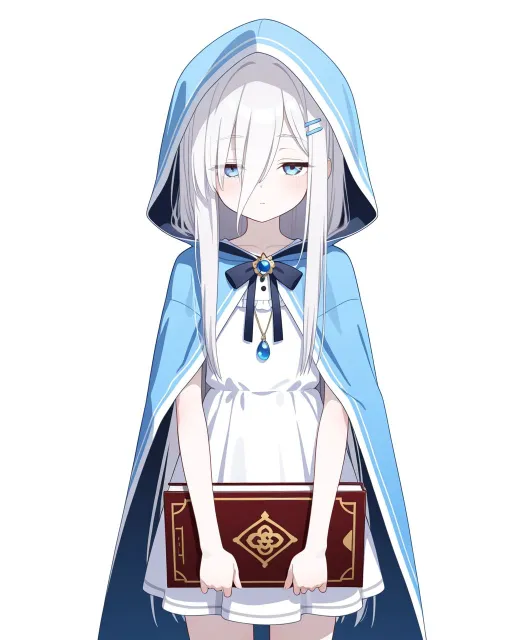
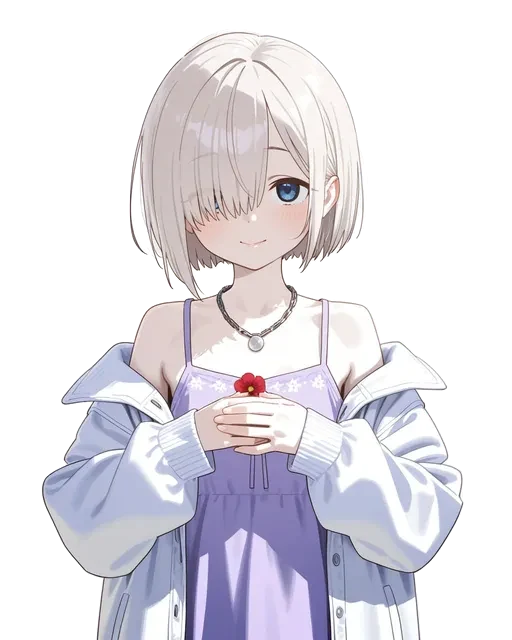
シェイラの立ち絵を描き直す（基本の絵。案 A を入れ、案 B・C を並べる）
銀の短いボブ（右目が前髪に隠れる）・垂れ目の青い目・白い大きめの上着と薄紫のキャミソール。
見た目のタグ・seed・メモ（portraits.json/md）と、人物の見た目（c2_people.js）も新しい絵に合わせる。
絵は背景を抜いた透明つき。表情の差分は持ち主が絵を決めてから作る。

Claude-Session: https://claude.ai/code/session_011Kp4AbAXdzXbnvYnjXXoLh

diff --git a/src/data/changelog.js b/src/data/changelog.js
@@ -9,6 +9,7 @@
       ver: "次の版",
       next: true,
       items: [
+        "シェイラの立ち絵を描き直した：銀の短い髪で右目が前髪に隠れ、白い大きめの上着に薄紫の服",
         "トロフィーの格を見直した：最初の冒険で取れるものは銅、狙えば取れるものは銀、大きな節目（使徒・伝説の武具・一年の旅・一万 G・上級の術・最後の段の絆）は金。金の上に「白金」（10 点）を足し、すべての場所・討てる使徒すべて・図鑑の分類を埋めるような長いやりこみを置いた。成長・評判と善悪・戦い・魔法・技・装備・旅・迷宮・依頼・仲間・絆と恋・結末・図鑑・交易の節目ごとにトロフィーを足し、全部で 242 個に。トロフィーの画面に格ごとの数を出す。前に取ったトロフィーも今の格で数える",
         "大きな迷宮（竜の墓場・黒鎧の使徒の居城・エルヴィナの地下墓地・鬼ヶ島の洞窟）の階に部屋ができた：分かれ道を選んで、罠・宝の箱（錠・ミミック）・休み場・魔物の巣・下への階段・その迷宮の昔のかけら（骨に刻まれた名・逆さの浮き彫り・墓守の帳面・流された剣士の名）に出会う。壁を調べると隠し扉（近道か隠し部屋）も。階段を見つければ静かに下りられ、探さずに奥へ進むこともできる。開錠の術・灯りの術・盗賊の鍵開けや罠読み・迷宮の古い鍵が部屋で役に立つ。部屋ごとに背景が変わり、最奥には特別な景色がある。見出しに、今いる階・入った部屋の数・階段を見つけたかが出る。ほかの迷宮は今までどおり",
       ],

diff --git a/src/data/c2_people.js b/src/data/c2_people.js
@@ -42,7 +42,7 @@
     }),
     sheila: P({
       name: "シェイラ", full: "シェイラ・レオネスト", nation: "レオネスト", role: "王国の第七王子（いちばん下の姫）。田舎の城の主。本が好きで使徒の伝承に詳しい。大人しそうに見えてお転婆。傭兵を雇って国の犯罪の芽を独自に調べている。「うん、」から話す", sex: "女", age: 18, race: "human",
-      who: { kind: "noble", sex: "女", age: 18, seed: "c2:sheila", look: { hair: "#d8bc70", hairStyle: "long", eyes: "sleepy", mouth: "flat", brows: "calm", outfit: "cloak", head: "none", gear: "none", chest: "gem", cloth: "#3a4a6a", build: "slim", marks: [], bg: "#6a5a7a" } },
+      who: { kind: "noble", sex: "女", age: 18, seed: "c2:sheila", look: { hair: "#d8d8e0", hairStyle: "bob", eyes: "sleepy", mouth: "smile", brows: "calm", outfit: "coat", head: "none", gear: "none", chest: "chain", cloth: "#eeeaf0", build: "slim", marks: [], bg: "#6a5a7a" } },
       join: {
         cls: "田舎の城の主", desc: "本を一冊、抱えている", power: 40, dmg: 0, heal: true, trait: "just", bond: 56, home: ["leavel"],
         life: { home: "王都の外れの、田舎の城", kin: "兄さまと姉さまたち", food: "城の厨房の焼き林檎", habit: "読みかけの本に指を一本はさんだまま、歩いている", secret: "城の書庫のいちばん奥の棚には、鍵がかかっている。中の本はもう全部読んだ", keep: "書き込みだらけの古い本" },

diff --git a/docs/art/portraits.md b/docs/art/portraits.md
@@ -24,7 +24,7 @@
 | `assets/portraits/dil.webp` | ディル | 型：`bishonen`<br>見た目（固定）：1boy, male focus, adult, young man, 24 years old, lean, tan skin, black hair, dark hair, short hair, messy spiky hair, swept bangs, amber eyes, sharp eyes, thin eyebrows, untucked white shirt, open collar, rolled-up sleeves, worn brown vest, brown leather belt, daggers on belt, pencil behind ear, narrow face, pointed chin<br>hand in pocket, holding an old book with a torn cover<br>表情：sly smirk<br>喜（`_joy`）：smile, closed mouth, pleased<br>怒（`_anger`）：annoyed, frown, glaring<br>哀（`_sorrow`）：sad, looking down, downturned mouth<br>楽（`_fun`）：grin, teeth, mischievous<br>得意げ（`_smug`）：smug, smirk, raised eyebrow, half-closed eyes<br>驚き（`_surprise`）：surprised, wide-eyed, open mouth<br>慌て（`_panic`）：flustered, sweatdrop, wide-eyed, open mouth<br>呆れ（`_exasperated`）：exasperated, half-closed eyes, deadpan, sigh | 本好きでずる賢い港町の青年。黒髪のはね毛、鋭い目。にやりと何か企んでいる顔 |
 | `assets/portraits/kaidel.webp` | カイデル | 型：`ojisan`<br>見た目（固定）：1boy, male focus, adult, man, 30 years old, muscular, broad shoulders, tan skin, black hair, jet black hair, short hair, short topknot, red headband, black eyes, droopy eyes, thick eyebrows, stubble, scar on face, bandages on arms, worn dark grey martial arts gi, open collar, torn sleeves, black martial arts belt, rugged face, square jaw<br>hands behind head<br>表情：big grin<br>喜（`_joy`）：smile, teeth, happy<br>怒（`_anger`）：angry, clenched teeth, glaring, v-shaped eyebrows<br>哀（`_sorrow`）：sad, frown, looking down, clenched jaw<br>楽（`_fun`）：laughing, open mouth, closed eyes<br>真剣（`_serious`）：serious, glaring, determined, closed mouth<br>驚き（`_surprise`）：surprised, wide-eyed, open mouth<br>困り（`_troubled`）：troubled, awkward grin, sweatdrop | 傷だらけの古武道使いの傭兵。黒髪・無精ひげ・太い眉。お気楽で、迷ったら殴る。屈託のない笑い |
 | `assets/portraits/nora.webp` | ノラミ（ノラ） | 見た目（固定）：1girl, dog girl, 18 years old, athletic, curvy, tan skin, brown hair, chestnut brown hair, medium hair, messy wild hair, ahoge, brown dog ears, floppy ears, brown dog tail, brown eyes, round eyes, thick eyebrows, fang, dirt on face, brown leather hunter clothes, short sleeves, bandaged fists<br>energetic, hands on hips<br>表情：big grin<br>喜（`_joy`）：smile, open mouth, happy, wagging tail<br>怒（`_anger`）：angry, pout, v-shaped eyebrows, ears back<br>哀（`_sorrow`）：sad, teary eyes, looking down, drooping ears<br>楽（`_fun`）：laughing, open mouth, closed eyes, wagging tail<br>目を輝かせる（`_sparkle`）：excited, sparkling eyes, open mouth, wagging tail<br>驚き（`_surprise`）：surprised, wide-eyed, perked up ears<br>泣き（`_cry`）：crying, tears, open mouth, drooping ears<br>すね（`_pout`）：pout, puffed cheeks, ears back<br>照れ（`_shy`）：embarrassed, blush, looking away, ears down | 森の犬の獣人。明るい愛すべきあほ。弓は苦手で拳の力自慢。歯を見せて笑う |
-| `assets/portraits/sheila.webp` | シェイラ | 見た目（固定）：1girl, princess, 18 years old, petite, slim, pale skin, white hair, silver-white hair, long hair, straight hair, long bangs, hair between eyes, blue eyes, light blue eyes, half-closed eyes, sleepy eyes, thin eyebrows, silver hair clip, blue hooded cloak, hood up, white dress, blue gem pendant<br>holding book against chest<br>表情：expressionless<br>喜（`_joy`）：light smile, closed mouth<br>怒（`_anger`）：pout, puffed cheeks, frown<br>哀（`_sorrow`）：sad, teary eyes, looking down<br>楽（`_fun`）：smile, open mouth, sparkling eyes<br>ほんの少し笑う（`_faint_smile`）：slight smile, soft eyes, closed mouth<br>照れ（`_shy`）：blush, embarrassed, looking away<br>目を輝かせる（`_sparkle`）：sparkling eyes, slight smile, excited<br>真剣（`_serious`）：serious, focused eyes, closed mouth<br>驚き（`_surprise`）：surprised, wide-eyed, slightly open mouth | 第七王子の姫。白い髪に長い前髪、眠たげな青い目。大人しそうで実はお転婆。「うん、」 |
+| `assets/portraits/sheila.webp` | シェイラ<br>seed 3434884284 | 見た目（固定）：1girl, 18 years old, petite, slim, pale skin, silver hair, platinum blonde hair, short hair, bob cut, hair ends curled inward, hair over one eye, bangs covering right eye, blue eyes, droopy eyes, thin eyebrows, pale pink lips, white jacket, oversized jacket, off-shoulder jacket, small red flower embroidery on collar, lavender camisole, thin chain necklace<br>hands on own chest, overlapping hands, soft lighting, thick painting, painterly<br>表情：gentle smile, closed mouth<br>喜（`_joy`）：light smile, closed mouth<br>怒（`_anger`）：pout, puffed cheeks, frown<br>哀（`_sorrow`）：sad, teary eyes, looking down<br>楽（`_fun`）：smile, open mouth, sparkling eyes<br>ほんの少し笑う（`_faint_smile`）：slight smile, soft eyes, closed mouth<br>照れ（`_shy`）：blush, embarrassed, looking away<br>目を輝かせる（`_sparkle`）：sparkling eyes, slight smile, excited<br>真剣（`_serious`）：serious, focused eyes, closed mouth<br>驚き（`_surprise`）：surprised, wide-eyed, slightly open mouth | 第七王子の姫。銀の短いボブ（毛先は内巻き）で、右目が前髪に隠れる。垂れ目の青い目、やわらかい笑み。白い大きめの上着（襟に小さな赤い花の刺繍）に薄紫のキャミソール、細い鎖の首飾り。大人しそうで実はお転婆。「うん、」 |
 | `assets/portraits/rui.webp` | ルイ | 見た目（固定）：1girl, child, small child, 9 years old, petite, pale skin, blue hair, light blue hair, short hair, bob cut, straight bangs, light blue eyes, half-closed eyes, thin eyebrows, faint glowing mark on back of hand, white ancient robe, gold trim, simple clothes<br>head tilt<br>表情：expressionless<br>喜（`_joy`）：slight smile<br>怒（`_anger`）：pout, slight frown<br>哀（`_sorrow`）：teary eyes, looking down<br>楽（`_fun`）：small smile, sparkling eyes<br>ほんの少し笑う（`_faint_smile`）：very slight smile, soft eyes, closed mouth<br>眠い（`_sleepy`）：sleepy, drowsy, half-closed eyes, yawning<br>驚き（`_surprise`）：slightly wide eyes, small open mouth<br>泣き（`_cry`）：tears, crying, expressionless | 遺跡で眠っていた無口な女の子。表情が動かない。子どもらしく |
 | `assets/portraits/zerina.webp` | ゼリナ | 見た目（固定）：1girl, 23 years old, slim, light skin, red hair, copper red hair, medium hair, hair pulled back, low bun, side bangs, green eyes, bright eyes, thick eyebrows, brown wide-brimmed hat with a red feather, white blouse, green merchant vest, brown leather coin pouch, large backpack<br>confident, hand on hip, holding an abacus<br>表情：closed eyes, big grin<br>喜（`_joy`）：smile, open mouth, happy, closed eyes<br>怒（`_anger`）：angry, open mouth, shouting, v-shaped eyebrows<br>哀（`_sorrow`）：sad, teary eyes, frown<br>楽（`_fun`）：laughing, open mouth, closed eyes, playful, wink<br>得意げ（`_smug`）：smug, grin, one eye closed<br>目を輝かせる（`_sparkle`）：excited, sparkling eyes, open mouth, smile<br>呆れ（`_exasperated`）：exasperated, half-closed eyes, frown, sigh<br>驚き（`_surprise`）：surprised, wide-eyed, open mouth | 関西言葉の商人の娘。羽根付きの帽子と大きな荷。物怖じしない、金が大好き。にかっと笑う |
 | `assets/portraits/elnea.webp` | エルネア | 見た目（固定）：1girl, elf, pointy ears, 19 years old, short, plump, frumpy, fair skin, brown hair, dull brown hair, short hair, messy bob cut, ahoge, brown eyes, round eyes, thick eyebrows, soot on face, goggles on head, baggy grey work clothes, brown work apron, work gloves<br>holding a crystal ore with both hands<br>表情：worried eyebrows, open mouth, blush<br>喜（`_joy`）：smile, blush, happy, sparkling eyes<br>怒（`_anger`）：pout, frown, puffed cheeks, blush<br>哀（`_sorrow`）：sad, teary eyes, worried eyebrows, looking down<br>楽（`_fun`）：excited, open mouth, sparkling eyes, blush<br>照れ（`_shy`）：blush, embarrassed, looking away, wavy mouth<br>目を輝かせる（`_sparkle`）：excited, sparkling eyes, open mouth, blush<br>慌て（`_panic`）：flustered, panicking, sweatdrop, wide-eyed, wavy mouth<br>泣き（`_cry`）：crying, tears, worried eyebrows<br>怯え（`_fear`）：scared, frightened, worried eyebrows, teary eyes, trembling | エルフの鉱石おたくの技師。容姿に自信がなく、おどおど。「〜っす」 |

diff --git a/CHANGELOG.md b/CHANGELOG.md
@@ -4,6 +4,7 @@
 
 ## 次の版（未公開）
 
+- シェイラの立ち絵を描き直した：銀の短い髪で右目が前髪に隠れ、白い大きめの上着に薄紫の服
 - トロフィーの格を見直した：最初の冒険で取れるものは銅、狙えば取れるものは銀、大きな節目（使徒・伝説の武具・一年の旅・一万 G・上級の術・最後の段の絆）は金。金の上に「白金」（10 点）を足し、すべての場所・討てる使徒すべて・図鑑の分類を埋めるような長いやりこみを置いた。成長・評判と善悪・戦い・魔法・技・装備・旅・迷宮・依頼・仲間・絆と恋・結末・図鑑・交易の節目ごとにトロフィーを足し、全部で 242 個に。トロフィーの画面に格ごとの数を出す。前に取ったトロフィーも今の格で数える
 - 大きな迷宮（竜の墓場・黒鎧の使徒の居城・エルヴィナの地下墓地・鬼ヶ島の洞窟）の階に部屋ができた：分かれ道を選んで、罠・宝の箱（錠・ミミック）・休み場・魔物の巣・下への階段・その迷宮の昔のかけら（骨に刻まれた名・逆さの浮き彫り・墓守の帳面・流された剣士の名）に出会う。壁を調べると隠し扉（近道か隠し部屋）も。階段を見つければ静かに下りられ、探さずに奥へ進むこともできる。開錠の術・灯りの術・盗賊の鍵開けや罠読み・迷宮の古い鍵が部屋で役に立つ。部屋ごとに背景が変わり、最奥には特別な景色がある。見出しに、今いる階・入った部屋の数・階段を見つけたかが出る。ほかの迷宮は今までどおり
 
